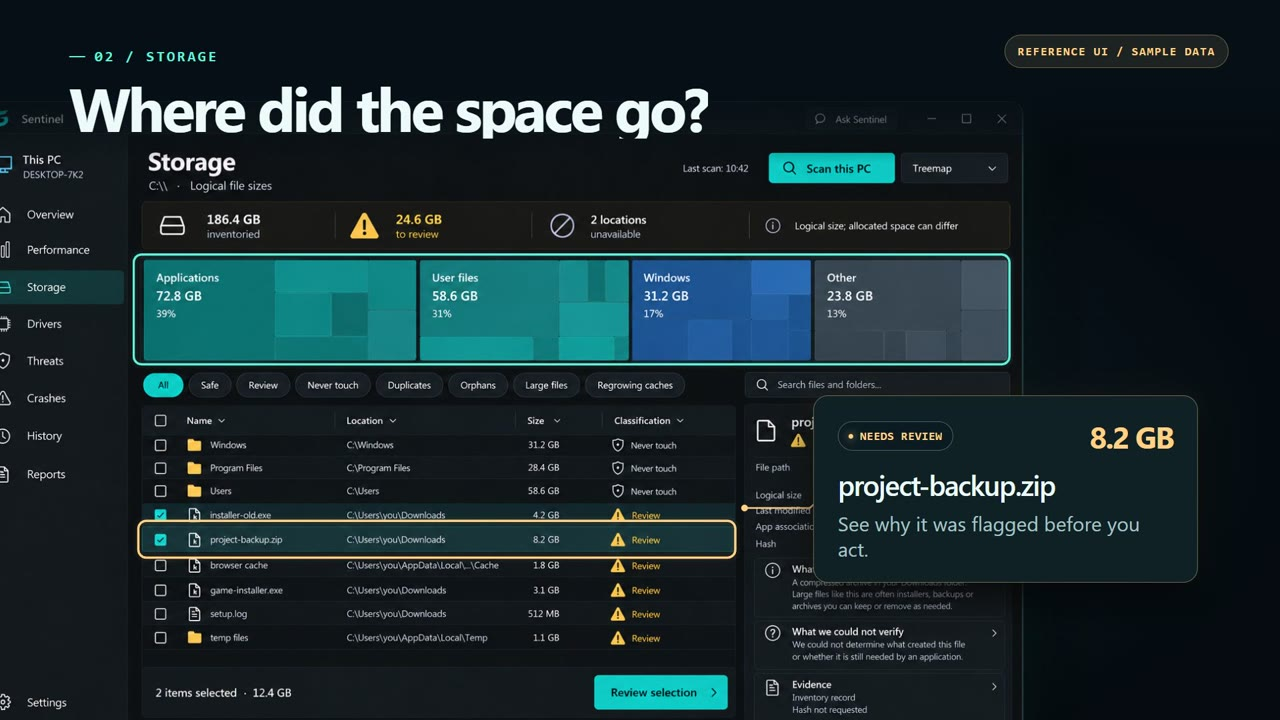
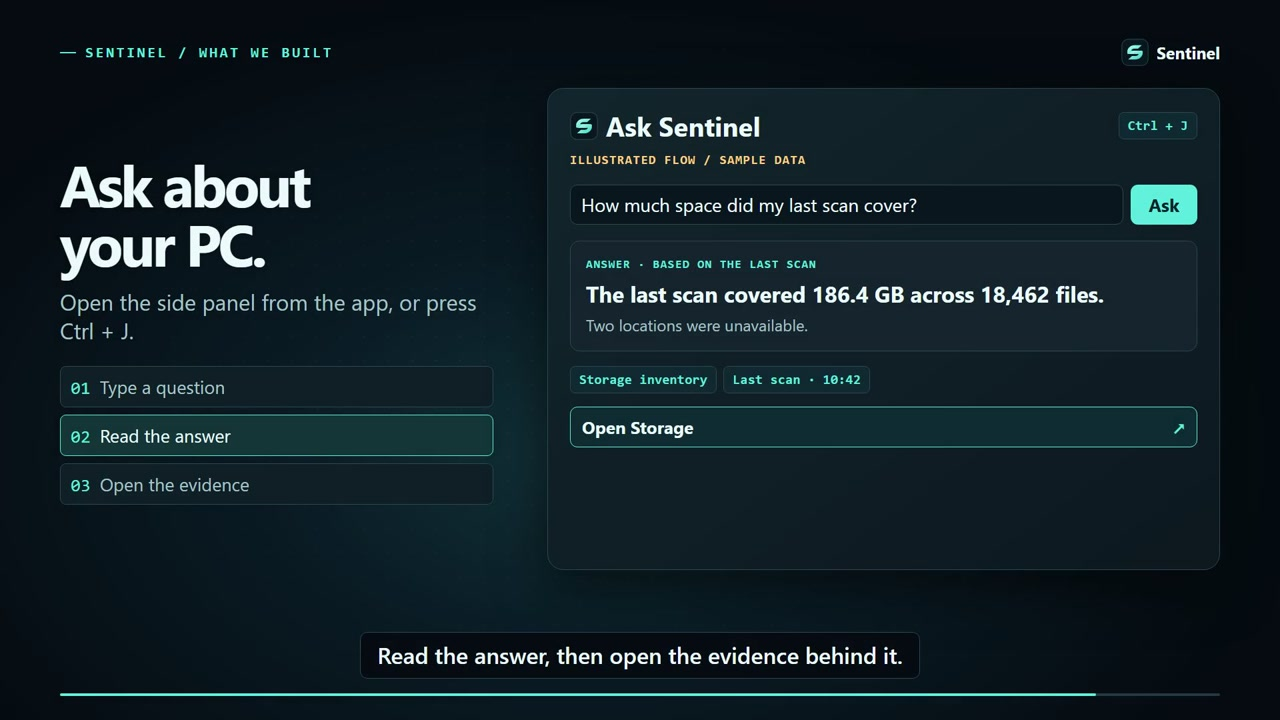
Add the three-minute Sentinel project explainer

diff --git a/README.md b/README.md
@@ -19,9 +19,9 @@ Sentinel is a Windows desktop app for investigating storage, performance, crashe
 
 ## Watch the demo
 
-[![Sentinel design preview showing the Storage screen and a flagged file](assets/sentinel-demo-preview.jpg)](https://github.com/harshtries-code/sentinal/releases/download/design-preview/sentinel-demo.mp4)
+[![Sentinel explainer preview showing how Ask Sentinel answers a question about the last scan](assets/sentinel-demo-preview.jpg)](https://github.com/harshtries-code/sentinal/releases/download/project-explainer/sentinel-explainer.mp4)
 
-[Download the 30-second demo (1080p MP4)](https://github.com/harshtries-code/sentinal/releases/download/design-preview/sentinel-demo.mp4). The film uses the reference UI and sample data to show the intended experience. The interface in the development build may differ.
+[Download the three-minute explainer (1080p MP4)](https://github.com/harshtries-code/sentinal/releases/download/project-explainer/sentinel-explainer.mp4). The opening explains why we built Sentinel, how its Windows collectors and optional cloud AI work together, and how Ask Sentinel links an answer to scan evidence. The walkthrough uses labeled reference screens and sample data.
 
 ## What you can explore
 
